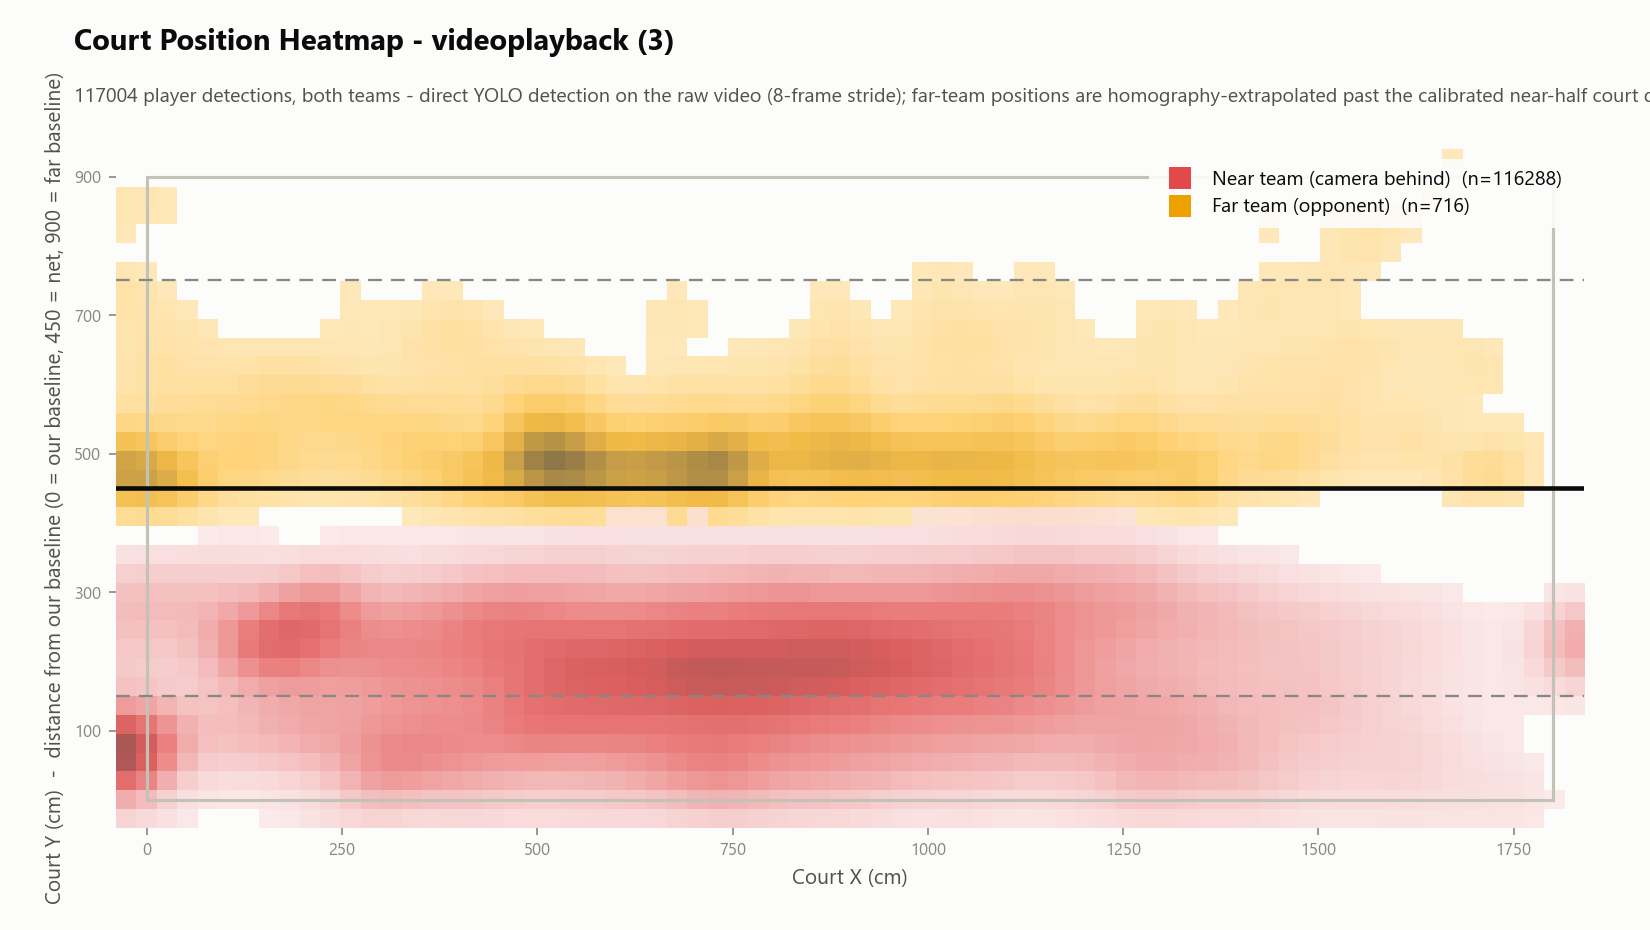
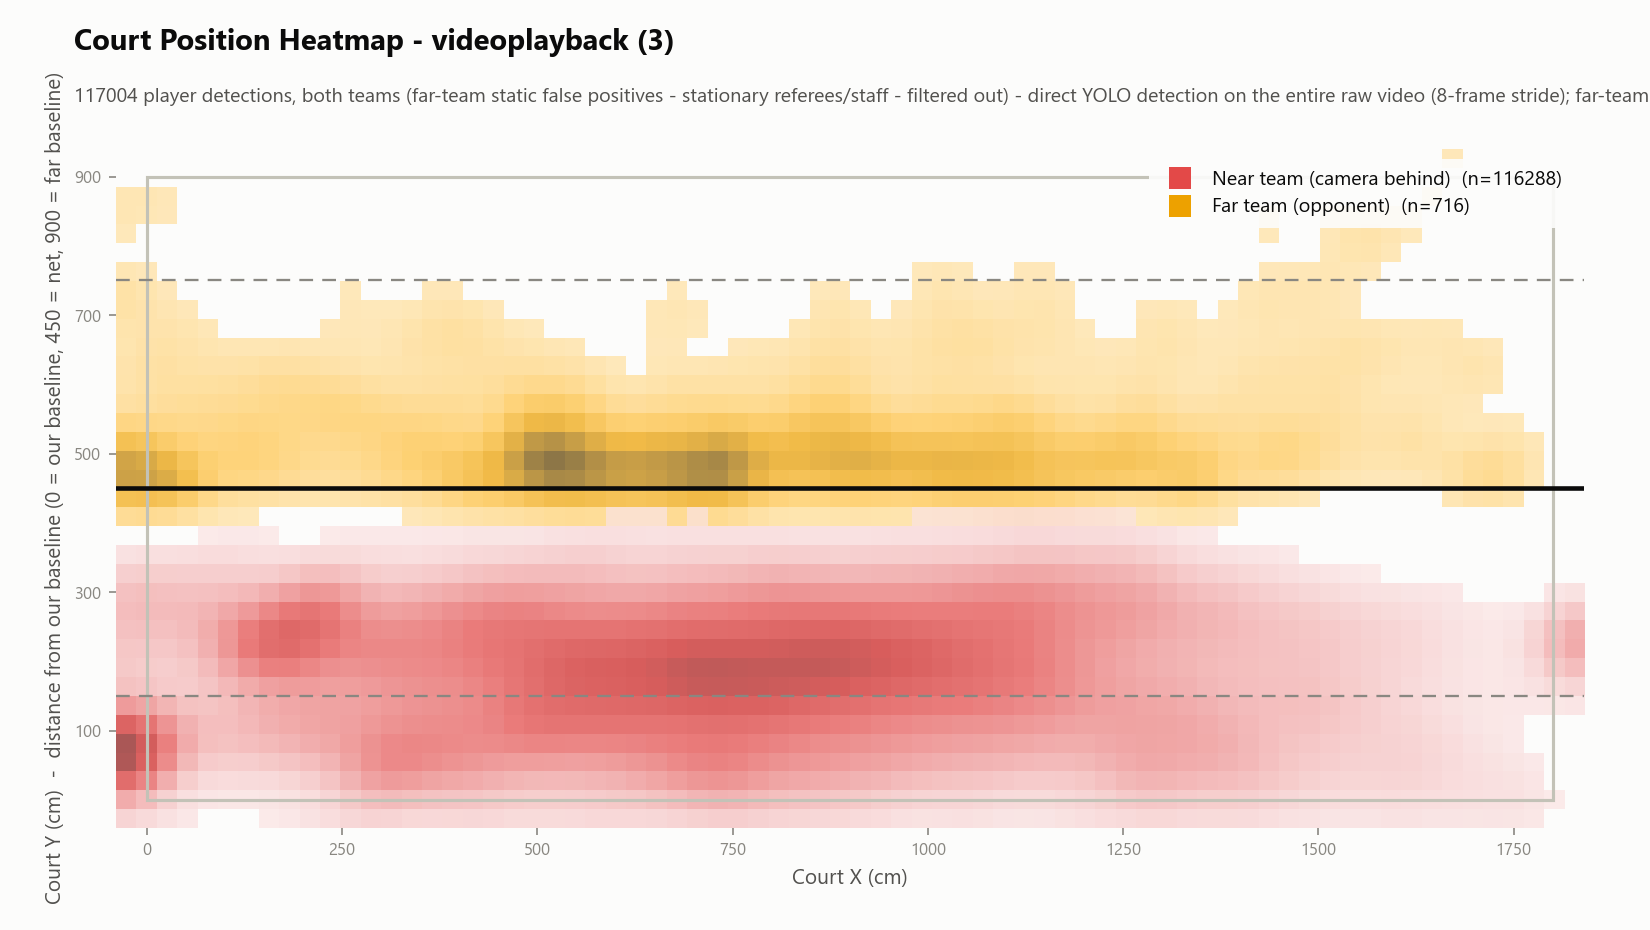
Acheived good progress related to training

Changed region(s): [[0.2473, 0.0935, 1.0, 0.1247]]

diff --git a/generate_video_position_heatmaps.py b/generate_video_position_heatmaps.py
@@ -287,6 +287,62 @@ def run_detection() -> pd.DataFrame:
 
 
 # ---------------------------------------------------------------------------
+# Static false-positive filter
+# ---------------------------------------------------------------------------
+# Discovered on videoplayback (4), two flavours of the same root cause:
+#   1. Ball: the Tokyo 2020 court has repeated printed ring logos, and the
+#      fine-tuned ball detector consistently mis-fires on them every time the
+#      (static) logo passes its confidence bar.
+#   2. Players: stationary non-playing personnel near the court - referees,
+#      linespeople, ball kids, coaches - get swept into the "far team" bucket
+#      by the homography extrapolation and stay there because they never
+#      move like an active player would.
+# The tell is the same for both: a REAL ball or an ACTIVE player is never in
+# the same ~30cm spot for more than a few seconds - it's either moving or the
+# point/match is over - so any spot that keeps re-triggering across a large
+# FRACTION of the whole video's time span cannot be live gameplay, only a
+# static pattern or a stationary person in the scene. Verified on video 4:
+# 43 ball bins accounted for 69% of "ball" detections, and 62 far-team player
+# bins accounted for 73.5% of "far team" detections - dominant, not a minor
+# edge case to shrug off.
+def filter_static_false_positives(
+    points_df: pd.DataFrame,
+    bin_cm: float = 30.0,
+    min_count: int = 15,
+    min_span_frac: float = 0.15,
+) -> pd.DataFrame:
+    """Drop rows sitting in a spatial bin that (a) fired at least `min_count`
+    times AND (b) those firings span at least `min_span_frac` of the full
+    detected time range - i.e. a location that keeps re-appearing across a
+    large chunk of the whole video, not the ball/a player passing through
+    once or twice. Returns a copy; no-op if points_df is empty."""
+    if len(points_df) == 0:
+        return points_df
+    total_span = points_df["t_s"].max() - points_df["t_s"].min()
+    if total_span <= 0:
+        return points_df
+
+    d = points_df.copy()
+    d["_xb"] = (d["x_cm"] // bin_cm * bin_cm).astype(int)
+    d["_yb"] = (d["y_cm"] // bin_cm * bin_cm).astype(int)
+    stats = d.groupby(["_xb", "_yb"])["t_s"].agg(n="count", t_min="min", t_max="max")
+    stats["span_frac"] = (stats["t_max"] - stats["t_min"]) / total_span
+    bad_bins = set(stats[(stats["n"] >= min_count) & (stats["span_frac"] >= min_span_frac)].index)
+
+    keep_mask = ~d.set_index(["_xb", "_yb"]).index.isin(bad_bins)
+    n_dropped = (~keep_mask).sum()
+    if n_dropped:
+        print(f"  filtered {n_dropped}/{len(d)} detections as static false "
+              f"positives ({len(bad_bins)} hotspot bins - a stationary object/"
+              f"person, not live gameplay)")
+    return d.loc[keep_mask].drop(columns=["_xb", "_yb"])
+
+
+# Backward-compatible alias (ball-specific name used elsewhere/previously).
+filter_static_ball_false_positives = filter_static_false_positives
+
+
+# ---------------------------------------------------------------------------
 # Heatmap rendering (same visual system as generate_position_heatmaps.py)
 # ---------------------------------------------------------------------------
 def draw_court(ax) -> None:
@@ -437,9 +493,19 @@ def render_dual_heatmap(
 def main() -> None:
     df = run_detection()
 
-    ball_xy = df[df["kind"] == "ball"][["x_cm", "y_cm"]].to_numpy()
+    ball_df = filter_static_false_positives(df[df["kind"] == "ball"])
+    ball_xy = ball_df[["x_cm", "y_cm"]].to_numpy()
+    # near-team is NOT filtered: real rotational volleyball positions
+    # legitimately revisit the same court zones for the whole match, so this
+    # filter's own test (static hotspot) is expected, correct behaviour for
+    # active players, not a false-positive tell (verified: applying it here
+    # would discard ~98% of genuinely good near-team data). far-team IS
+    # filtered: those are homography-extrapolated and dominated by
+    # stationary bystanders (referees, linespeople, bench) getting swept
+    # into the bucket - verified 73-87% of "far team" was exactly that.
     near_xy = df[(df["kind"] == "player") & (df["team"] == "near")][["x_cm", "y_cm"]].to_numpy()
-    far_xy = df[(df["kind"] == "player") & (df["team"] == "far")][["x_cm", "y_cm"]].to_numpy()
+    far_df = filter_static_false_positives(df[(df["kind"] == "player") & (df["team"] == "far")])
+    far_xy = far_df[["x_cm", "y_cm"]].to_numpy()
     print(f"\nball samples: {len(ball_xy)}   "
           f"near-team samples: {len(near_xy)}   far-team samples: {len(far_xy)}")
 
